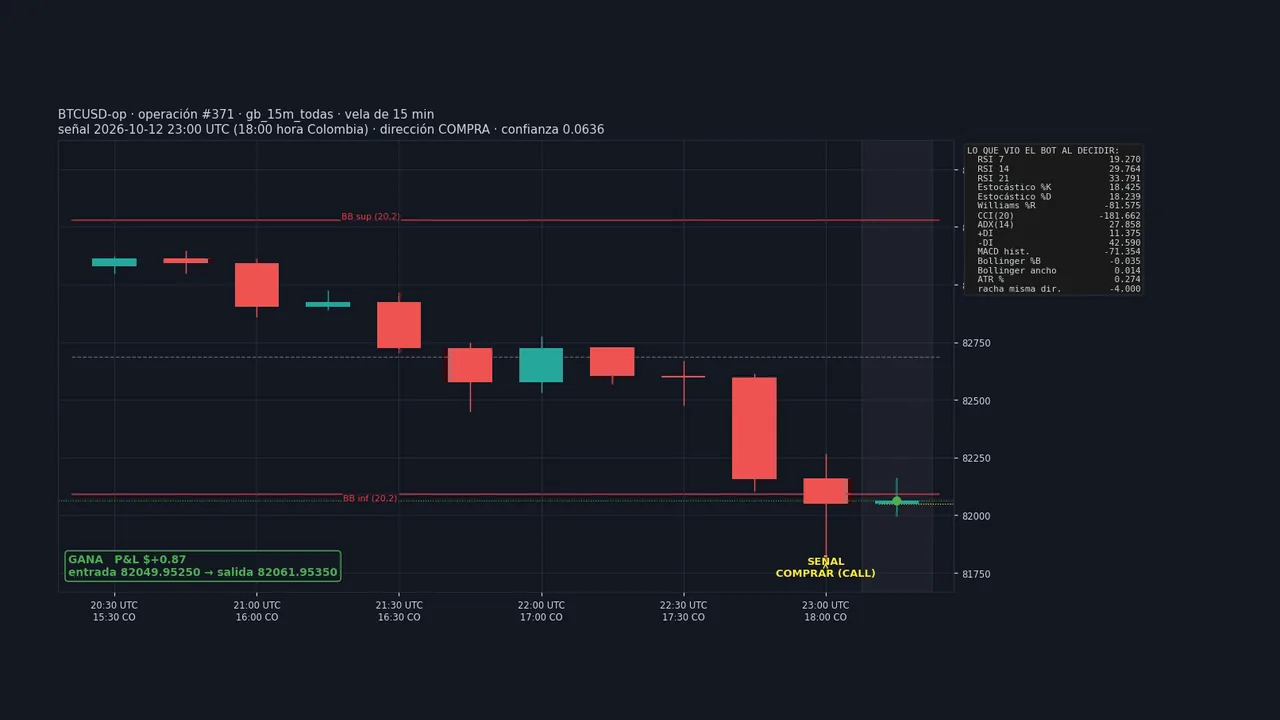
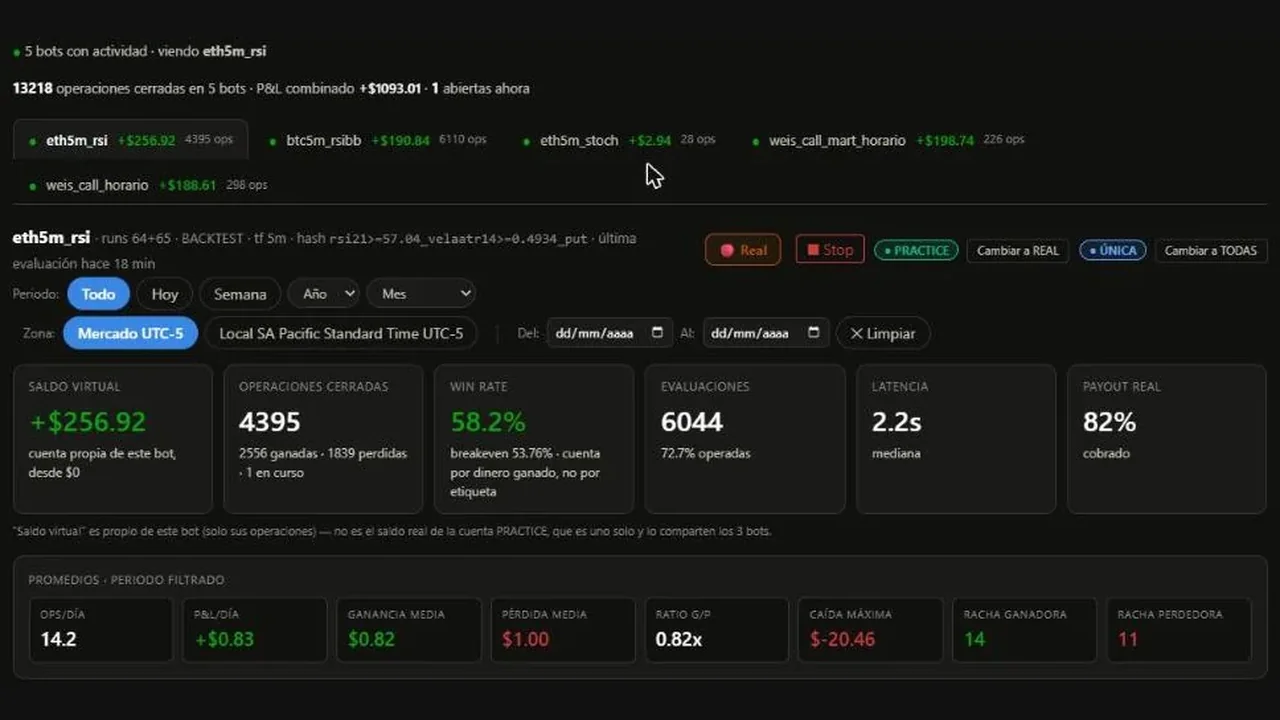
KamasMarket: agente de soporte con DeepSeek; Cruces: Gemini Vision; trading: capturas del panel
- KamasMarket: 2 agentes (cliente/admin) con 34 tools, seguridad por sesión,
  modelo de respaldo, tickets; prueba de carga, Redis y Cloudflare
- Cruces: identificación de captchas de imagen con Gemini Vision (Vertex AI)
- Trading: 3 capturas del panel en vivo (ETH 5m RSI, umbral, operaciones),
  datos privados excluidos; 5 bots en paralelo

diff --git a/src/content/projects.js b/src/content/projects.js
@@ -14,7 +14,7 @@ export const PROJECTS = [
     year: 2026,
     featured: true,
     status: 'production',
-    techs: ['python', 'fastapi', 'postgresql', 'supabase', 'solidity', 'bsc', 'usdt', 'wompi', 'nowpayments', 'docker', 'linux', 'javascript', 'bootstrap', 'telegram'],
+    techs: ['python', 'fastapi', 'postgresql', 'supabase', 'deepseek', 'solidity', 'bsc', 'usdt', 'redis', 'cloudflare', 'wompi', 'nowpayments', 'docker', 'linux', 'javascript', 'bootstrap', 'telegram'],
     cover: '/media/kamasmarket/cover.svg',
     media: [
       { type: 'image', src: ph('kamasmarket', 1) },
@@ -33,6 +33,7 @@ export const PROJECTS = [
         { id: 'escrow', x: 660, y: 58 },
         { id: 'notify', x: 660, y: 200 },
         { id: 'worker', x: 660, y: 342 },
+        { id: 'agent', x: 262, y: 342 },
       ],
       steps: [
         { from: 'user', to: 'web' },
@@ -44,6 +45,8 @@ export const PROJECTS = [
         { from: 'worker', to: 'api' },
         { from: 'escrow', to: 'api' },
         { from: 'api', to: 'notify' },
+        { from: 'web', to: 'agent' },
+        { from: 'agent', to: 'db' },
       ],
     },
   },
@@ -52,7 +55,7 @@ export const PROJECTS = [
     year: 2026,
     featured: true,
     status: 'work',
-    techs: ['python', 'fastapi', 'playwright', 'chromium', 'sse', 'postgresql', 'javascript', 'html', 'css', 'docker', 'gcp'],
+    techs: ['python', 'fastapi', 'playwright', 'chromium', 'gemini', 'sse', 'postgresql', 'javascript', 'html', 'css', 'docker', 'gcp'],
     cover: '/media/cruces-interinstitucionales/cover.svg',
     media: [
       { type: 'image', src: ph('cruces-interinstitucionales', 1) },
@@ -69,12 +72,14 @@ export const PROJECTS = [
         { id: 'parser', x: 660, y: 342 },
         { id: 'db', x: 450, y: 342 },
         { id: 'report', x: 262, y: 342 },
+        { id: 'gemini', x: 450, y: 58 },
       ],
       steps: [
         { from: 'user', to: 'ui' },
         { from: 'ui', to: 'api' },
         { from: 'api', to: 'pool' },
         { from: 'pool', to: 'gov' },
+        { from: 'pool', to: 'gemini' },
         { from: 'pool', to: 'parser' },
         { from: 'parser', to: 'api' },
         { from: 'api', to: 'ui' },
@@ -128,6 +133,9 @@ export const PROJECTS = [
     techs: ['python', 'sklearn', 'scipy', 'pandas', 'numpy', 'websocket', 'sqlite', 'matplotlib', 'docker', 'javascript', 'html'],
     cover: '/media/bot-trading/cover.webp',
     media: [
+      { type: 'image', src: '/media/bot-trading/panel-resumen-eth5m.webp' },
+      { type: 'image', src: '/media/bot-trading/panel-umbral.webp' },
+      { type: 'image', src: '/media/bot-trading/panel-operaciones.webp' },
       { type: 'image', src: '/media/bot-trading/operacion-ml-371.webp' },
       { type: 'image', src: '/media/bot-trading/forense-bug-martingala.webp' },
       { type: 'image', src: '/media/bot-trading/backtest-descartado.webp' },

diff --git a/src/content/techs.js b/src/content/techs.js
@@ -6,7 +6,7 @@ import {
   siAnthropic, siGrafana, siReact, siJavascript, siHtml5, siCss, siBootstrap, siOpencv,
   siTelegram, siWhatsapp, siPandas, siNumpy, siLinux, siBnbchain, siTether, siOpentelemetry,
   siPrometheus, siSqlite, siPlotly, siSelenium, siGeopandas, siGooglechrome, siVite,
-  siScikitlearn, siScipy,
+  siScikitlearn, siScipy, siDeepseek, siRedis, siCloudflare, siGooglegemini,
 } from 'simple-icons'
 
 const fromSi = (icon, extra = {}) => ({ title: icon.title, path: icon.path, color: `#${icon.hex}`, ...extra })
@@ -24,6 +24,10 @@ export const TECHS = {
   bsc: fromSi(siBnbchain, { title: 'BNB Smart Chain', cat: 'web3' }),
   usdt: fromSi(siTether, { title: 'USDT', cat: 'web3' }),
   claude: fromSi(siAnthropic, { title: 'Claude (Anthropic)', cat: 'ai' }),
+  deepseek: fromSi(siDeepseek, { title: 'DeepSeek', cat: 'ai' }),
+  gemini: fromSi(siGooglegemini, { title: 'Gemini Vision', cat: 'ai' }),
+  redis: fromSi(siRedis, { cat: 'data' }),
+  cloudflare: fromSi(siCloudflare, { cat: 'cloud' }),
   opentelemetry: fromSi(siOpentelemetry, { cat: 'data' }),
   prometheus: fromSi(siPrometheus, { cat: 'data' }),
   grafana: fromSi(siGrafana, { cat: 'data' }),
